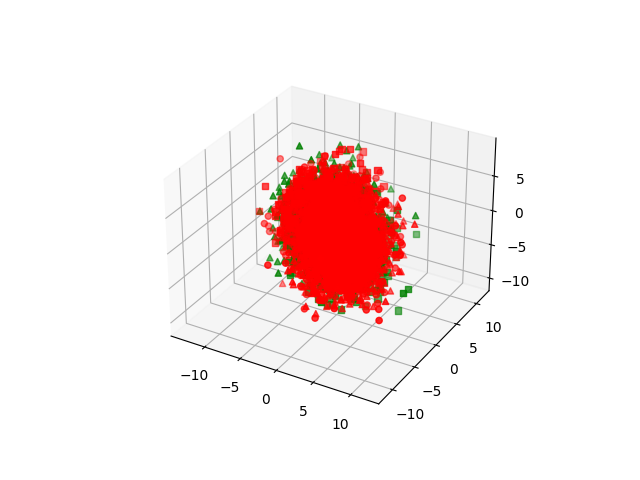
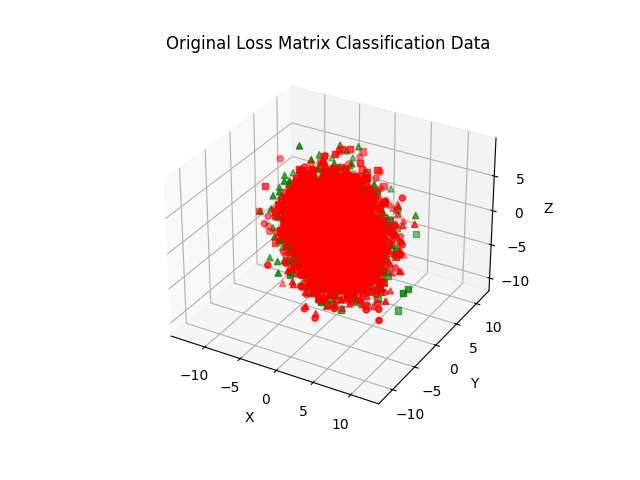
question2 commit

Changed region(s): [[0.25, 0.0625, 0.7812, 0.125], [0.7188, 0.7812, 0.75, 0.8125], [0.375, 0.8438, 0.4062, 0.875]]

diff --git a/HW2/Question2/HW2_2B.py b/HW2/Question2/HW2_2B.py
@@ -6,8 +6,7 @@ import matplotlib.pyplot as plt
 import numpy as np
 
 
-def determine_decision(m01, c01, m02, c02, m03, c03, data):
-    loss_matrix = np.array([[0, 1, 1], [1, 0, 1], [1, 1, 0]])
+def determine_decision(m01, c01, m02, c02, m03, c03, data, loss_matrix, output_name):
     correct1, correct2, correct3 = 0, 0, 0
     correct1list, correct2list, correct3list = [], [], []
     incorrect1, incorrect2, incorrect3 = 0, 0, 0
@@ -87,12 +86,12 @@ def determine_decision(m01, c01, m02, c02, m03, c03, data):
                np.array(correct2z), marker='s', color='g')
     ax.scatter(np.array(correct3x), np.array(correct3y),
                np.array(correct3z), marker='^', color='g')
-
     ax.set_xlabel("X")
     ax.set_ylabel("Y")
     ax.set_zlabel("Z")
 
-    ax.set_title("Original Loss Matrix Classification Data")
+    title_name = output_name[:-4] + " Loss Matrix Classification Data"
+    ax.set_title(title_name)
 
     incorrect1x, incorrect1y, incorrect1z = [], [], []
     incorrect2x, incorrect2y, incorrect2z = [], [], []
@@ -116,8 +115,7 @@ def determine_decision(m01, c01, m02, c02, m03, c03, data):
                np.array(incorrect2z), marker='s', color='r')
     ax.scatter(np.array(incorrect3x), np.array(incorrect3y),
                np.array(incorrect3z), marker='^', color='r')
-
-    plt.savefig("2A3.png")
+    plt.savefig(output_name)
 
 
 def main():
@@ -129,7 +127,12 @@ def main():
     c03 = [[6, 0, 0], [0, 6, 0], [0, 0, 6]]
     data = read_csv("Datafile2.csv")
 
-    determine_decision(m01, c01, m02, c02, m03, c03, data)
+    loss_matrix_a10 = np.array([[0, 1, 1], [1, 0, 1], [10, 10, 0]])
+    determine_decision(m01, c01, m02, c02, m03, c03,
+                       data, loss_matrix_a10, "a10.png")
+    loss_matrix_a100 = np.array([[0, 1, 1], [1, 0, 1], [100, 100, 0]])
+    determine_decision(m01, c01, m02, c02, m03, c03,
+                       data, loss_matrix_a100, "a100.png")
 
 
 if __name__ == "__main__":
